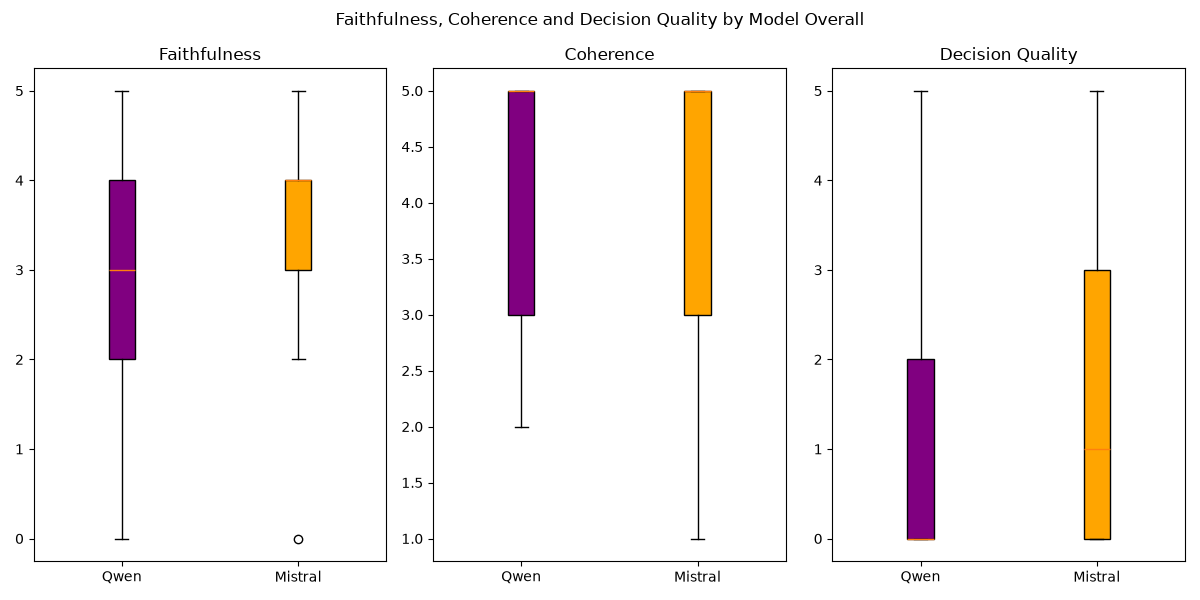
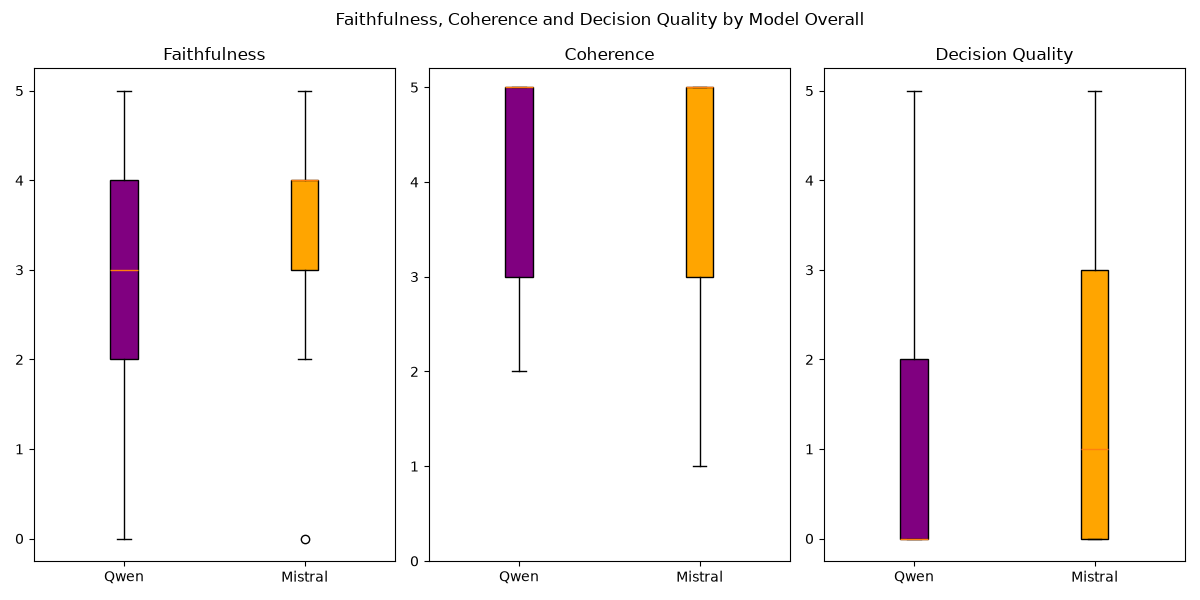
Fix to graph increments

diff --git a/overall.py b/overall.py
@@ -40,6 +40,10 @@ ax[1].set_title("Coherence")
 ax3 = ax[2].boxplot([df_cleaned_reasoning_dq["Decision Quality"], df_cleaned_non_reasoning_dq["Decision Quality"]], tick_labels=["Qwen", "Mistral"], patch_artist=True)
 ax[2].set_title("Decision Quality")
 
+ax[0].set_yticks([0,1,2,3,4,5])
+ax[1].set_yticks([0,1,2,3,4,5])
+ax[2].set_yticks([0,1,2,3,4,5])
+
 colours = ["purple", "orange"]
 
 for plot in (ax1, ax2, ax3):
